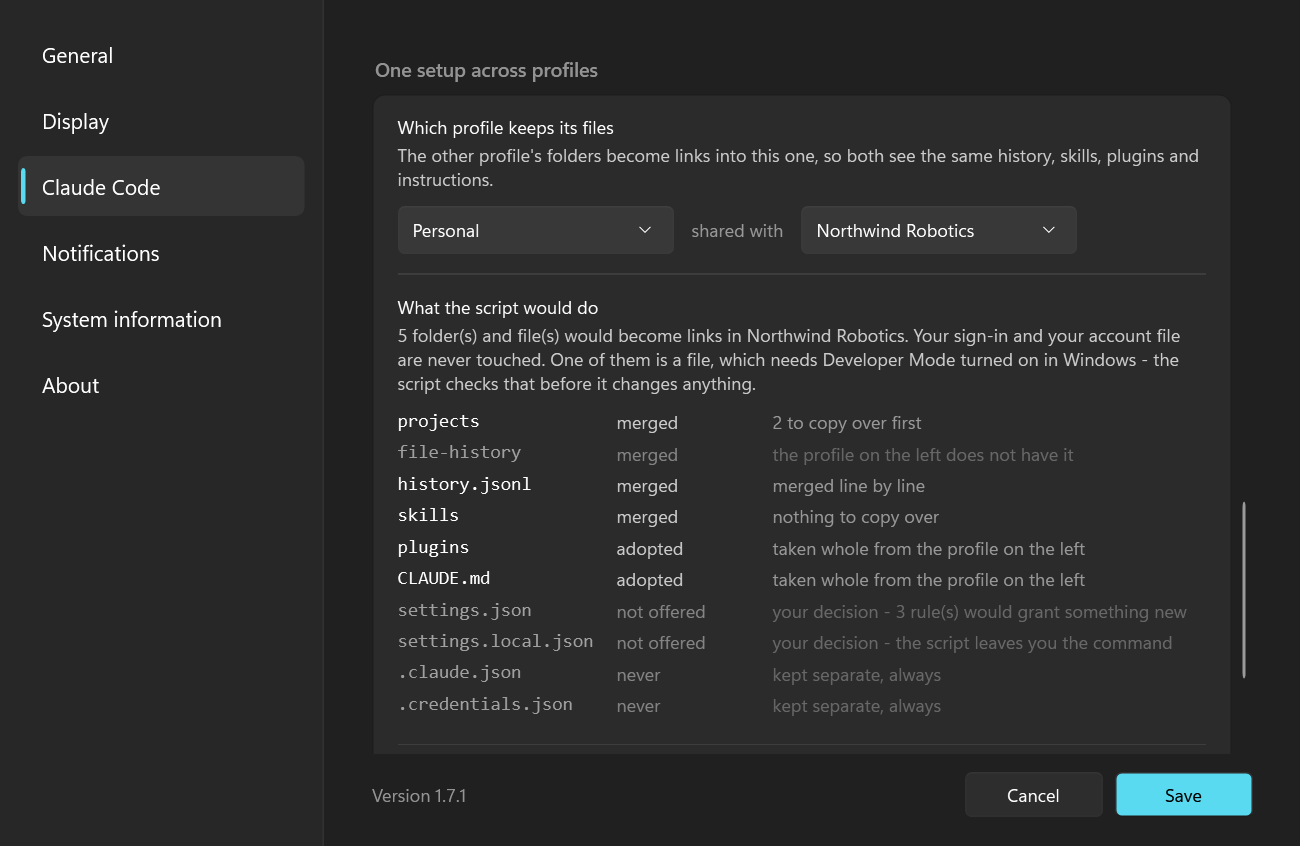
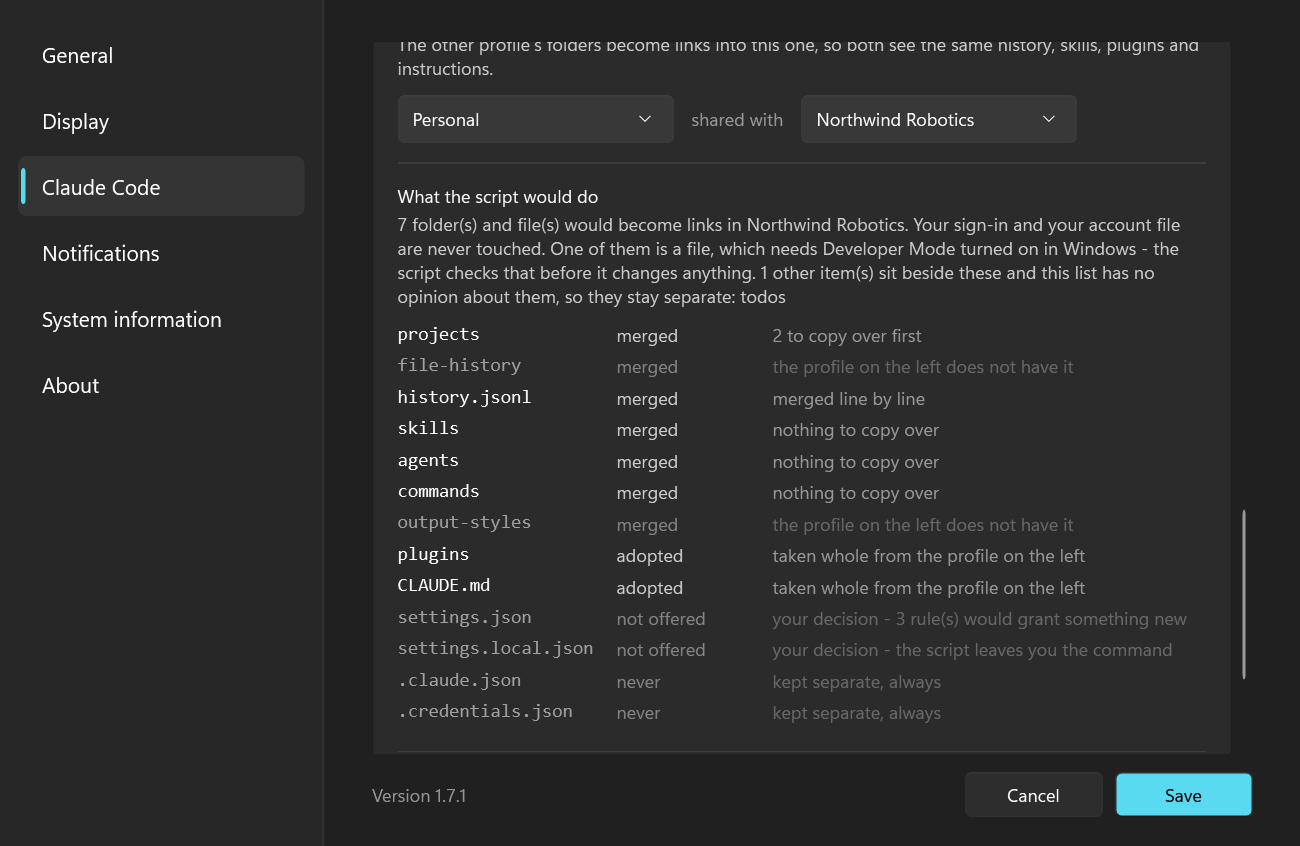
feat: add the missing catalogue rows and report the catalogue's own edge (T374)
- This commit adds three previously missing rows to the catalogue: `agents`, `commands`, and `output-styles`, ensuring that they are treated similarly to `skills` during the merge process.
- It introduces a mechanism to report the catalogue's own edge, which identifies and counts any top-level entries in the configuration directories that do not have corresponding rows in the catalogue.
- The changes ensure that users are informed about items that exist but are not represented in the catalogue, preventing confusion about missing entries and enhancing the overall transparency of the linking process.
- Updates to documentation and user-facing messages clarify the new functionality, emphasizing that the catalogue must acknowledge its limitations and what it does not cover.
- The commit also includes adjustments to various components, such as the CLI and UI, to reflect these changes and ensure consistent behavior across the application.

diff --git a/site/src/lib/site-content.ts b/site/src/lib/site-content.ts
@@ -691,7 +691,9 @@ export const profiles = {
         { code: "deny" },
         " counted apart, since those take capability away rather than granting it; and ",
         { b: "never" },
-        " for your sign-in and the file that makes it a separate account.",
+        " for your sign-in and the file that makes it a separate account. And it names everything else in the two folders that it has ",
+        { b: "no opinion about" },
+        " — because a list of opinions that says nothing about what is not on it reads as a complete one.",
       ] as Rich,
     },
     {

diff --git a/src/Profiles/ProfileLink.cs b/src/Profiles/ProfileLink.cs
@@ -84,10 +84,13 @@ internal static class ProfileLink
     /// handles it: the merges first, because they are the ones that can report a conflict and stop, then
     /// the adoptions, then the two that are only explained.
     ///
-    /// <para>Deliberately not "everything in the directory". <c>cache</c>, <c>shell-snapshots</c>,
-    /// <c>paste-cache</c>, <c>debug</c> and the rest are per-machine scratch that is rebuilt on demand:
-    /// linking them shares nothing a person would notice and adds failure modes to a script whose whole
-    /// value is being readable. An entry earns a row here by being part of the <em>setup</em>.</para>
+    /// <para>Deliberately not "everything in the directory": an entry earns a row here by being part of
+    /// the <em>setup</em>, and <see cref="Scratch"/> names the per-machine caches and snapshots that are
+    /// not. <b>Which is why <see cref="Edge"/> exists</b> (T374). This is a list of opinions, and the
+    /// honest failure mode of a list of opinions is silence about everything not on it: <c>agents</c> and
+    /// <c>commands</c> were missing from here for four tasks, and nothing said so, because neither folder
+    /// existed on the machine this was built against. A fixed catalogue must report its own edge — a row
+    /// can be added later, and being told nothing is missing cannot be undone.</para>
     /// </summary>
     public static IReadOnlyList<Entry> Catalogue { get; } = new[]
     {
@@ -101,6 +104,12 @@ internal static class ProfileLink
             "two disjoint prompt histories, so the union is by line ordered on its timestamp"),
         new Entry("skills", true, Verdict.Merge, Union.Entries, "skill",
             "skills you wrote; a folder named on both sides is a real conflict and is reported, not merged"),
+        new Entry("agents", true, Verdict.Merge, Union.Entries, "agent",
+            "subagents you wrote, one folder each - the same shape as skills"),
+        new Entry("commands", true, Verdict.Merge, Union.Entries, "command",
+            "slash commands you wrote, one file each"),
+        new Entry("output-styles", true, Verdict.Merge, Union.Entries, "output style",
+            "output styles you wrote, and the same shape again"),
         new Entry("plugins", true, Verdict.Adopt, Union.None, "",
             "each installed plugin records an absolute installPath, so a per-entry merge leaves entries "
             + "pointing into the other profile's tree"),
@@ -116,6 +125,40 @@ internal static class ProfileLink
         new Entry(".credentials.json", false, Verdict.Never, Union.None, "",
             "a token"),
     };
+
+    /// <summary>
+    /// Per-machine scratch: entries the catalogue deliberately has no row for, declared so the edge report
+    /// below can say how many it passed over instead of listing them (T374).
+    ///
+    /// <para>Each of these is either keyed by a process id or rebuilt on demand — <c>sessions</c> and
+    /// <c>ide</c> hold pid-named files, <c>session-env</c> a directory per session uuid, and the rest are
+    /// caches, snapshots and a debug log. Linking any of them shares nothing a person would notice and
+    /// hands the script failure modes for nothing.</para>
+    ///
+    /// <para><b>Deliberately short.</b> Anything not certainly scratch belongs in the edge report, where
+    /// it is named and the reader decides — that is the whole correction T374 makes, and a generous
+    /// scratch list would undo it by turning silence into a different silence.</para>
+    /// </summary>
+    public static IReadOnlySet<string> Scratch { get; } = new HashSet<string>(StringComparer.OrdinalIgnoreCase)
+    {
+        "cache", "paste-cache", "shell-snapshots", "debug", "downloads", "backups", "ide",
+        "session-env", "sessions", "statsig",
+    };
+
+    /// <summary>
+    /// What sits in the two config dirs that the catalogue says nothing about (T374).
+    ///
+    /// <para><b>Why a fixed catalogue must report its own edge.</b> The list is a list of opinions, and the
+    /// honest failure mode of a list of opinions is silence about everything not on it. <c>agents</c> and
+    /// <c>commands</c> were missing for four tasks and nothing said so, because neither existed on the
+    /// machine this was built against. This is what makes the next folder Claude Code invents visible on
+    /// the first run rather than on the day somebody notices it never came across.</para>
+    ///
+    /// <para>Not a verdict: an acknowledgement. <paramref name="Unclaimed"/> is named in full and
+    /// <paramref name="Ignored"/> is a count, which is the difference between "I have no opinion about
+    /// this" and "I decided this does not matter".</para>
+    /// </summary>
+    public readonly record struct Edge(string[] Unclaimed, int Ignored);
 
     /// <summary>
     /// One catalogue entry against the two directories on disk. <paramref name="AlreadyLinked"/> is the
@@ -144,7 +187,7 @@ internal static class ProfileLink
     /// </summary>
     public sealed record Plan(
         string PrimaryDir, string PrimaryLabel, string SecondaryDir, string SecondaryLabel,
-        IReadOnlyList<Step> Steps, string? Error = null)
+        IReadOnlyList<Step> Steps, string? Error = null, Edge Edge = default)
     {
         /// <summary>The steps that will actually touch the disk under <c>-Apply</c>.</summary>
         public IEnumerable<Step> Acting => Steps.Where(s =>
@@ -199,7 +242,38 @@ internal static class ProfileLink
                     e.Verdict == Verdict.Withheld ? SettingsUnion.For(primary, secondary, e.Name) : null));
             }
 
-        return new Plan(primary, primaryLabel, secondary, secondaryLabel, steps, error);
+        return new Plan(primary, primaryLabel, secondary, secondaryLabel, steps, error,
+            error is null ? EdgeOf(primary, secondary) : default);
+    }
+
+    /// <summary>
+    /// Everything at the top level of either config dir that <see cref="Catalogue"/> has no row for,
+    /// split into what is named and what is counted (T374). Directory entries only — names, never a file
+    /// opened.
+    /// </summary>
+    private static Edge EdgeOf(string primary, string secondary)
+    {
+        var claimed = new HashSet<string>(Catalogue.Select(e => e.Name), StringComparer.OrdinalIgnoreCase);
+        var unclaimed = new SortedSet<string>(StringComparer.OrdinalIgnoreCase);
+        int ignored = 0;
+        foreach (string dir in new[] { primary, secondary })
+        {
+            string[] names;
+            // An unreadable config dir reports no edge rather than an empty one: this is the surface whose
+            // whole job is saying what it does not know about.
+            try { names = Directory.EnumerateFileSystemEntries(dir).Select(Path.GetFileName).ToArray()!; }
+            catch { continue; }
+            foreach (string name in names)
+            {
+                if (claimed.Contains(name)) continue;
+                // A `.pre-link-<stamp>` copy is this script's own doing, so naming it back to the reader as
+                // something nobody has an opinion about would be a second run reporting the first one.
+                if (Scratch.Contains(name) || name.Contains(".pre-link-", StringComparison.OrdinalIgnoreCase)
+                    || name.Contains(".pre-merge-", StringComparison.OrdinalIgnoreCase)) { ignored++; continue; }
+                unclaimed.Add(name);
+            }
+        }
+        return new Edge(unclaimed.ToArray(), ignored);
     }
 
     private static string Resolve(string configDir) =>
@@ -568,7 +642,41 @@ internal static class ProfileLink
         return sb.ToString();
     }
 
-    private static string Footer(Plan plan) => $$"""
+    /// <summary>
+    /// What this script has no opinion about, after the rows it does (T374). Last rather than first: a
+    /// reader has to have seen the catalogue before "and these are not in it" means anything.
+    ///
+    /// <para>Named in full, and capped only because a config dir can hold a surprising number of state
+    /// files. The count of scratch entries is beside it so the two are not confused — one is an absence of
+    /// opinion, the other is an opinion.</para>
+    /// </summary>
+    private static string EdgeNote(Plan plan, int show = 8)
+    {
+        Edge edge = plan.Edge;
+        if (edge.Unclaimed.Length == 0)
+            return $"""
+
+                # Nothing else at the top level of either profile that this script has no opinion about
+                # ({edge.Ignored} per-machine cache/snapshot entry(ies) passed over).
+
+                """;
+        var sb = new StringBuilder();
+        sb.AppendLine($"""
+
+            # AND WHAT THIS SCRIPT SAYS NOTHING ABOUT. {edge.Unclaimed.Length} entry(ies) sit at the top level
+            # of one of these two profiles and appear in none of the rows above - not because they are safe
+            # to share, and not because they are not, but because nothing here has an opinion about them.
+            # They are named so that you can have one. {edge.Ignored} further per-machine cache and snapshot
+            # entry(ies) were passed over and are not listed.
+            #
+            """);
+        foreach (string name in edge.Unclaimed.Take(show)) sb.AppendLine($"#   {name}");
+        if (edge.Unclaimed.Length > show)
+            sb.AppendLine($"#   ... and {edge.Unclaimed.Length - show} more");
+        return sb.ToString();
+    }
+
+    private static string Footer(Plan plan) => EdgeNote(plan) + $$"""
 
         Note ''
         if ($Apply) {

diff --git a/src/Cli/SelfTestCli.cs b/src/Cli/SelfTestCli.cs
@@ -5135,6 +5135,18 @@ internal static class SelfTestCli
                   (e.Verdict == ProfileLink.Verdict.Merge) == (e.Unit.Length > 0)));
         Check("every entry explains itself — the script is read before it is run",
               ProfileLink.Catalogue.All(e => e.Why.Length > 0));
+        // The three rows T374 added, and the shape they share with `skills`: one folder each, so the union
+        // is by entry name. They were missing for four tasks because neither existed on the machine this
+        // was built against, which is the whole argument for the edge report below.
+        Check("what a user writes themselves is all merged the same way",
+              new[] { "skills", "agents", "commands", "output-styles" }.All(
+                  n => byName[n] is { Verdict: ProfileLink.Verdict.Merge, Union: ProfileLink.Union.Entries }));
+        // Catalogue and scratch must be disjoint, or an entry is both an opinion and passed over and the
+        // edge report becomes incoherent about which of the two it is.
+        Check("no entry is both catalogued and dismissed as scratch",
+              !ProfileLink.Catalogue.Any(e => ProfileLink.Scratch.Contains(e.Name)),
+              string.Join(", ", ProfileLink.Catalogue.Where(e => ProfileLink.Scratch.Contains(e.Name))
+                                                     .Select(e => e.Name)));
 
         ProfileLink.Plan plan = ProfileLink.For(primary, secondary, "Personal", "Work");
         Check("a lopsided pair composes a plan", plan.Error is null, plan.Error ?? "");
@@ -5266,6 +5278,42 @@ internal static class SelfTestCli
         Check("and the script says so rather than linking into nothing",
               ProfileLink.Script(gap).Contains("nothing to link into", StringComparison.Ordinal));
         File.WriteAllText(Path.Combine(primary, "CLAUDE.md"), "{}\n");
+
+        // The edge (T374): a fixed catalogue has to report what it has no row for, or a reader is told
+        // nothing is missing. Both sides contribute, and the two kinds of "not a row" stay apart —
+        // scratch is counted, everything else is named.
+        Directory.CreateDirectory(Path.Combine(primary, "something-new-claude-code-invented"));
+        Directory.CreateDirectory(Path.Combine(secondary, "only-over-here"));
+        Directory.CreateDirectory(Path.Combine(primary, "shell-snapshots"));
+        Directory.CreateDirectory(Path.Combine(secondary, "paste-cache"));
+        Directory.CreateDirectory(Path.Combine(secondary, "projects.pre-link-20260101-000000"));
+        ProfileLink.Plan edged = ProfileLink.For(primary, secondary, "Personal", "Work");
+        Check("an entry the catalogue has no row for is named, from either side",
+              edged.Edge.Unclaimed.Contains("something-new-claude-code-invented")
+              && edged.Edge.Unclaimed.Contains("only-over-here"),
+              string.Join(", ", edged.Edge.Unclaimed));
+        Check("scratch is counted rather than named, which is an opinion and not an absence of one",
+              edged.Edge.Ignored >= 2
+              && !edged.Edge.Unclaimed.Contains("shell-snapshots")
+              && !edged.Edge.Unclaimed.Contains("paste-cache"),
+              $"{edged.Edge.Ignored} ignored, unclaimed: {string.Join(", ", edged.Edge.Unclaimed)}");
+        // A second run must not report the first one's own leftovers as things nobody has an opinion about.
+        Check("and this script's own moved-aside copies are not reported back to the reader",
+              !edged.Edge.Unclaimed.Any(n => n.Contains(".pre-link-", StringComparison.Ordinal)),
+              string.Join(", ", edged.Edge.Unclaimed));
+        Check("nothing in the catalogue turns up as unclaimed",
+              !edged.Edge.Unclaimed.Any(n => ProfileLink.Catalogue.Any(
+                  e => string.Equals(e.Name, n, StringComparison.OrdinalIgnoreCase))));
+        string edgedScript = ProfileLink.Script(edged);
+        Check("the script names every unclaimed entry, since a count alone cannot be acted on",
+              edged.Edge.Unclaimed.All(n => edgedScript.Contains(n, StringComparison.Ordinal)));
+        Check("and says plainly that it has no opinion rather than that they are safe",
+              edgedScript.Contains("nothing here has an opinion about them", StringComparison.Ordinal));
+        Directory.Delete(Path.Combine(primary, "something-new-claude-code-invented"));
+        Directory.Delete(Path.Combine(secondary, "only-over-here"));
+        Directory.Delete(Path.Combine(primary, "shell-snapshots"));
+        Directory.Delete(Path.Combine(secondary, "paste-cache"));
+        Directory.Delete(Path.Combine(secondary, "projects.pre-link-20260101-000000"));
 
         // The two refusals that are about the arguments, not the filesystem.
         Check("the same directory on both sides is refused rather than linked to itself",

diff --git a/src/Profiles/AccountFixture.cs b/src/Profiles/AccountFixture.cs
@@ -143,6 +143,11 @@ internal static class AccountFixture
                 Directory.CreateDirectory(Path.Combine(dir, "projects", $"D--work-sample-project-{i}"));
             for (int i = 1; i <= 3; i++)
                 Write(Path.Combine(dir, "skills", $"sample-skill-{i}", "SKILL.md"), "# sample\n");
+            // T374's two new rows, on both sides so they render as real merges rather than three
+            // "does not have it" rows in a row. `output-styles` is deliberately left out of both, so that
+            // branch keeps exactly one row — it is information, and three of it is a broken fixture.
+            Write(Path.Combine(dir, "agents", "sample-agent.md"), "# sample\n");
+            Write(Path.Combine(dir, "commands", "sample-command.md"), "# sample\n");
             Directory.CreateDirectory(Path.Combine(dir, "plugins"));
             Write(Path.Combine(dir, "history.jsonl"), "");
         }
@@ -166,6 +171,11 @@ internal static class AccountFixture
               }
             }
             """);
+        // One entry the catalogue has no row for, so the plan's edge sentence appears in a published shot
+        // (T374) — the third time this fixture has had to grow a case a real machine has and it did not.
+        // `todos` is a folder Claude Code really keeps and this script really has no opinion about, which is
+        // the whole point of that sentence: it is not a warning, it is an admission.
+        Directory.CreateDirectory(Path.Combine(work, "todos"));
         for (int i = 1; i <= 12; i++)
             Directory.CreateDirectory(Path.Combine(work, "file-history", $"session-{i:00}"));
         Write(Path.Combine(personal, "CLAUDE.md"), "# sample\n");

diff --git a/src/Ui/SettingsPage.ClaudeCode.cs b/src/Ui/SettingsPage.ClaudeCode.cs
@@ -306,8 +306,16 @@ internal partial class SettingsPage
 
         LinkPlanList.ItemsSource = LinkPlanRow.From(_linkPlan);
         int acting = _linkPlan.Acting.Count();
+        // The edge, on the surface the decision is made on (T374): a list of opinions has to say what it
+        // has no opinion about, or the reader is told nothing is missing.
+        string[] unclaimed = _linkPlan.Edge.Unclaimed;
         LinkPlanCaption.Text = L.T("settings.cc.linkPlanCount", Nums.Of(acting), _linkPlan.SecondaryLabel)
-                               + (_linkPlan.NeedsSymlink ? " " + L.T("settings.cc.linkNeedsDev") : "");
+                               + (_linkPlan.NeedsSymlink ? " " + L.T("settings.cc.linkNeedsDev") : "")
+                               + (unclaimed.Length > 0
+                                   ? " " + L.T("settings.cc.linkEdge", Nums.Of(unclaimed.Length),
+                                       string.Join(", ", unclaimed.Take(4))
+                                       + (unclaimed.Length > 4 ? " …" : ""))
+                                   : "");
         LinkWriteButton.IsEnabled = acting > 0;
     }
 

diff --git a/src/Cli/ProfilesCli.cs b/src/Cli/ProfilesCli.cs
@@ -255,6 +255,12 @@ internal static class ProfilesCli
                                   : "adopted whole"));
         }
         Console.WriteLine();
+        // The catalogue's own edge (T374), read out beside the plan because a list of opinions that does
+        // not say what it has no opinion about reads as a complete one.
+        Console.WriteLine(plan.Edge.Unclaimed.Length == 0
+            ? $"nothing else at the top level has no row here ({plan.Edge.Ignored} scratch entry(ies) passed over)"
+            : $"{plan.Edge.Unclaimed.Length} entry(ies) have no row here and no opinion either "
+              + $"({plan.Edge.Ignored} scratch passed over): {string.Join(", ", plan.Edge.Unclaimed)}");
         Console.WriteLine($"{plan.Acting.Count()} entry(ies) would be linked"
                           + (plan.NeedsSymlink
                               ? "; one of them is a file, so the script refuses without Developer Mode"

diff --git a/CHANGELOG.md b/CHANGELOG.md
@@ -31,7 +31,7 @@
 | [L](#block-l--scan-resilience) | Scan resilience — one bad folder can't blank the app |
 | [M](#block-m--explain-on-demand) | Explain on demand — the method note behind an ⓘ |
 | [N](#block-n--system-information) | System information — your plan, your install, this machine |
-| [O](#block-o--profiles) | Profiles — several Claude Code logins on one machine (active — see ROADMAP) |
+| [O](#block-o--profiles) | Profiles — several Claude Code logins on one machine |
 | [P](#block-p--project-layout) | Project layout — where a file lives |
 | [Q](#block-q--keyboard-input-in-the-windows) | Keyboard input in the windows |
 | [R](#block-r--profiles-second-pass-what-a-real-second-login-exposed) | Profiles, second pass — what a real second login exposed |
@@ -582,6 +582,7 @@
 - **T370** — Settings > Claude Code > One setup across profiles picks which profile keeps its files and shows, per entry, what sharing it would mean - merged with the number the union would copy over, adopted whole, not offered, or never - with the four refusals dimmed and still listed, since an entry missing from the list reads as one nobody had an opinion about. Write script writes the PowerShell where the user points and reveals it; the app still has no write path into a config dir. Two surfaces the width fight decided: both blocks are label-above-control, because a SettingsRow's header is one unwrapped line and French clipped it mid-word, and the detail column never renders the catalogue's unit noun, because "union by session uuid" is half-translated in four languages while a count needs no noun. AccountFixture now builds the entries, so a published shot renders every branch but already-linked. -Case Link is the check a capture cannot be: both combos open seeded, so a page ignoring them photographs correctly - it swaps the sides and asserts the plan moved, then that one profile twice is refused with the button disabled.
 - **T371** — Three surfaces now say what a shared transcripts folder costs, and the first is the only one that says it before the decision: the script's header names both profiles and states that Follow the active profile stops moving the icon between them, emitted only when projects is actually in the plan, so it disappears once that entry is already linked. The toggle's own description gains a sentence when every followable profile shares a tree - composed onto the sentence explaining the setting rather than replacing it, and a description rather than a disabled control, because a third profile arriving makes it work again with nothing changed. And --profiles no longer offers --link-profiles 0 1 for a pair it has just reported as sharing its transcripts. ProfileActivity.CanFollow is the reading all three go through, resolving links and walking nothing, since a settings page must not pay for a transcript sweep to write one sentence. Followable is part of the question rather than a filter on the answer, which is the assertion that went red when it was dropped.
 - **T373** — SettingsUnion reads both sides and reports what the union would add, so the one decision the script refuses to make is made on evidence: how many entries arrive on each side, which permission list each lands in, and the first few by name. Three things it keeps apart, each of them a way a report about risk stops describing risk - the two directions, because a union adds to both; narrowing counted apart from granting, or entries arriving in deny read as new capability; and hooks per event with a count each side, because a hook is a command line that runs and no total answers that. Error means nothing was measured and never that nothing would change: a file only one profile has is the widest form of this decision rather than the emptiest, an unparseable one is an absence, and two files that agree say so. Read once in For and rendered by three surfaces, so no two of them can disagree about a figure somebody is about to act on. The verdict stays Withheld and no command is emitted. AccountFixture now writes two settings files that genuinely disagree, since two copies of {} render the one branch nobody needs a picture of.
+- **T374** — Three rows the catalogue was missing - agents, commands and output-styles, Merge by entry name exactly like skills - and, more to the point, a plan that reports its own edge: every top-level entry in either config dir that no row covers is named in the script and counted on the page, with per-machine caches and snapshots counted rather than named, so an absence of opinion is never confused for one. Scratch is a short declared set for that reason: anything not certainly a cache belongs in the report where the reader decides, and a generous list would turn one silence into another. This script's own .pre-link- copies are excluded, or a second run reports the first. The rule it settles is why the two rows went missing for four tasks with nothing saying so - neither folder existed on the machine this was built against: a fixed catalogue must report its own edge, because a row can be added later and being told nothing is missing cannot be undone. Seen to fail by sweeping one side only, which the two-sided assertion caught.
 
 ## Block N — System information
 

diff --git a/IMPROVEMENTS.md b/IMPROVEMENTS.md
@@ -43,8 +43,6 @@
 
 ---
 
-## Block O — Profiles
-
 ## Block AI — Verification — the checks that prove a change
 
 ## Block G — Localization
@@ -847,31 +845,6 @@ has never had.
 
 That is the shape to expect from a fixed catalogue and a growing page. The catalogue is a list of
 opinions, and the honest failure mode of a list of opinions is silence about everything not on it.
-
-### XCV.1 A fixed catalogue that does not report its own edge (T374)
-
-`ProfileLink.Catalogue` is ten rows, and its own doc says so proudly: an entry earns a row by being
-part of the *setup*, and `cache`, `shell-snapshots` and the rest are scratch that linking would
-share nothing by. That reasoning is right and it has a hole in it. The list is a list of
-**opinions**, and the honest failure mode of a list of opinions is silence about everything not on
-it.
-
-Claude Code already keeps `agents\` and `commands\` in a config dir, and neither is named here.
-Neither exists on the machine this was found on, which is exactly why it went unnoticed: a user who
-has written a subagent or a slash command gets a script that shares their skills and their plugins,
-says nothing about the two folders beside them, and leaves those to be linked by hand — in the order
-that loses a tree, which is the thing this script exists to replace.
-
-- **The rows that are missing.** `agents` and `commands` are `Merge` by entry name, exactly like
-  `skills`: one folder each, a name on both sides is a real conflict, the union loses nothing. Worth a
-  decision too: `output-styles`, the same shape again.
-- **And a line for everything else.** After the ten rows, the script should say how many top-level entries
-  exist on either side that it has no opinion about, and name them. Not a verdict — an acknowledgement, so
-  the next folder Claude Code invents is visible on the first run rather than on the day somebody notices
-  their agents never came across. The page's plan gets the count too.
-
-The rule this settles: **a fixed catalogue must report its own edge.** A row can be added later;
-being told nothing is missing cannot be undone.
 
 ### XCV.2 A capture that cannot say what it framed (T375)
 

diff --git a/README.md b/README.md
@@ -613,8 +613,9 @@ wrong one loses a folder.
 **Settings → Claude Code → One setup across profiles** picks which profile keeps its files and shows you,
 per folder and file, what sharing them would mean:
 
-- **merged** — `projects`, `file-history` and `skills` are unioned first, so neither side loses anything,
-  and the row says how many folders would be copied over. `history.jsonl` is merged line by line.
+- **merged** — `projects`, `file-history` and the things you wrote yourself (`skills`, `agents`,
+  `commands`, `output-styles`) are unioned first, so neither side loses anything, and the row says how
+  many folders would be copied over. `history.jsonl` is merged line by line.
 - **adopted** — `plugins` and your `CLAUDE.md` are taken whole from the profile that keeps its files.
   A plugin records where it was installed, so merging those entry by entry would leave half of them
   pointing at a folder that is no longer there.
@@ -627,6 +628,13 @@ per folder and file, what sharing them would mean:
   commented out, for you to uncomment on the evidence.
 - **never** — `.claude.json` and `.credentials.json`. Your sign-in and the file that makes this a
   separate account are not part of "one setup", and no button here will touch them.
+
+**And it says what it has no opinion about.** The list above is a list of opinions, so the plan closes by
+naming everything else sitting at the top level of either folder — not because those are safe to share and
+not because they are not, but because nothing here has a view. Per-machine caches and snapshots are
+counted rather than named. That line exists because `agents` and `commands` were missing from the list for
+four releases and nothing said so: a row can be added later, and being told nothing is missing cannot be
+undone.
 
 **The button writes a script; nothing else happens.** Claude Code Tray has no way to write into a
 configuration folder and isn't growing one — so **Write script…** saves a PowerShell file where you point

diff --git a/ROADMAP.md b/ROADMAP.md
@@ -24,10 +24,6 @@
 | ⏳ | Partial — direction is right, more work remains |
 | 🛠 | In progress |
 
-## Block O — Profiles
-
-- 📋 **T374** (deps: —) **The catalogue is ten rows and silent about everything else, so agents and commands are shared by nobody** — Two of them are Merge-by-name exactly like skills, and the line that names what is left over is what stops the next folder going missing. → §XCV.1
-
 ## Block AI — Verification — the checks that prove a change
 
 - 📋 **T375** (deps: —) **Framing a card for a published shot is five captures of trial and error on a scroll= number nothing verifies** — The caller knows which element it wants photographed and the app knows where that is, so the flag should take the name and report the fit. → §XCV.2
